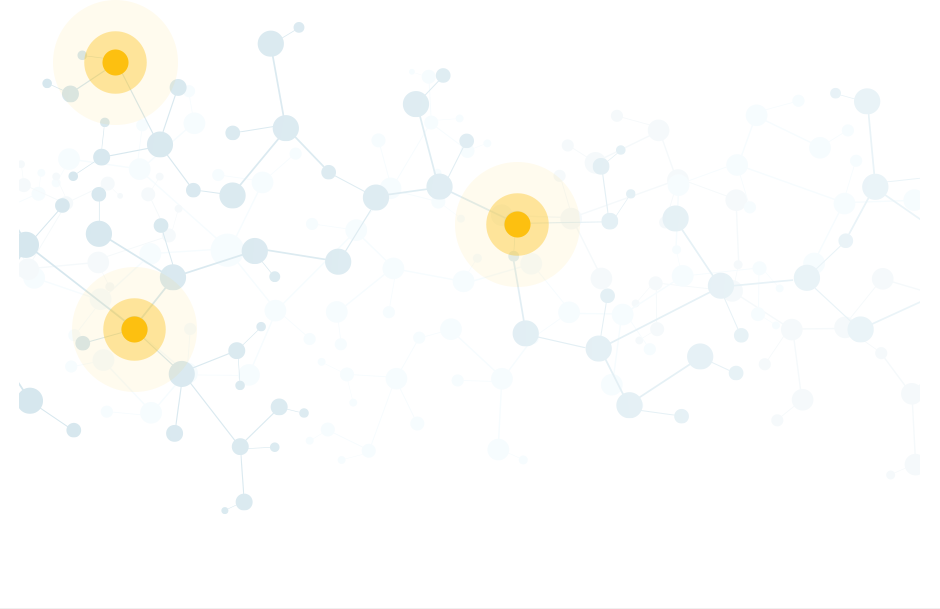
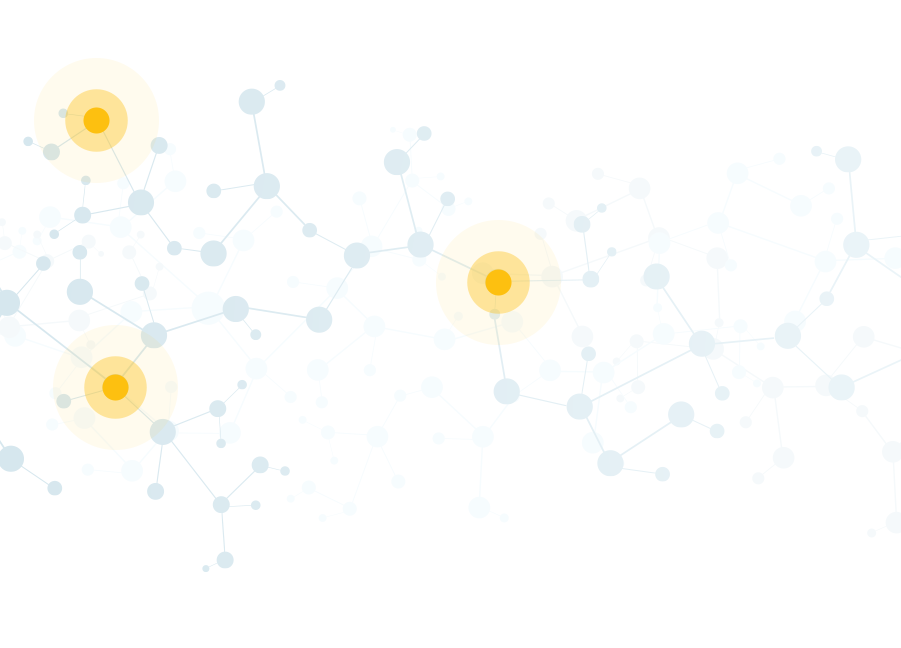
competition slide 8

diff --git a/web/assets/less/include/modalBody.less b/web/assets/less/include/modalBody.less
@@ -214,15 +214,32 @@
             }
         }
         &.slide8 {
-            background: url('/assets/images/fosidal.png') no-repeat 0 0;
+            .row {
+                background: url('/assets/images/fosidal.png') no-repeat 0 0;
+                margin: 0;
+                padding: 110px 0 89px;
+            }
             p {
                 font-family: 'Open Sans';
                 font-size: 18px;
                 font-weight: bold;
                 line-height: 24px;
                 span {
+                    display: block;
                     font-size: 30px;
                     font-weight: 800;
+                    line-height: 30px;
+                }
+                &.topText {
+                    margin: 0 0 0 148px;
+                }
+                &.centerText {
+                    margin: 64px 0 0 552px;
+                    width: 32%;
+                }
+                &.bottomText {
+                    margin: 30px 0 0 168px;
+                    width: 43%;
                 }
             }
         }

diff --git a/web/assets/css/main.css b/web/assets/css/main.css
@@ -9223,8 +9223,10 @@ label {
 .modalBody .competition.slide6 .right-box img {
   margin-top: 90px;
 }
-.modalBody .competition.slide8 {
+.modalBody .competition.slide8 .row {
   background: url('/assets/images/fosidal.png') no-repeat 0 0;
+  margin: 0;
+  padding: 110px 0 89px;
 }
 .modalBody .competition.slide8 p {
   font-family: 'Open Sans';
@@ -9233,8 +9235,21 @@ label {
   line-height: 24px;
 }
 .modalBody .competition.slide8 p span {
+  display: block;
   font-size: 30px;
   font-weight: 800;
+  line-height: 30px;
+}
+.modalBody .competition.slide8 p.topText {
+  margin: 0 0 0 148px;
+}
+.modalBody .competition.slide8 p.centerText {
+  margin: 64px 0 0 552px;
+  width: 32%;
+}
+.modalBody .competition.slide8 p.bottomText {
+  margin: 30px 0 0 168px;
+  width: 43%;
 }
 @media (min-width: 992px) {
   .modalBody .competition.slide7 .right-box img {
